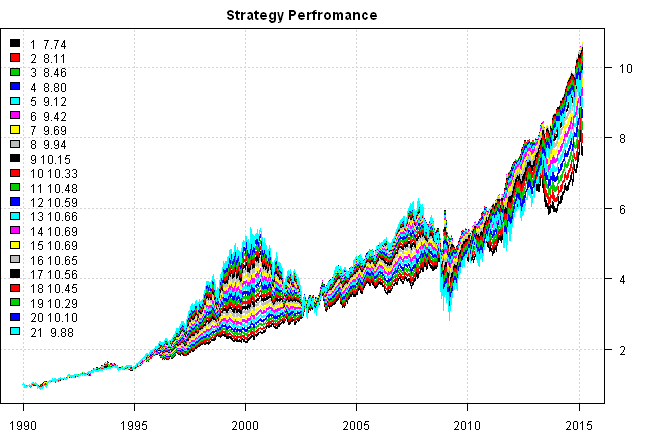
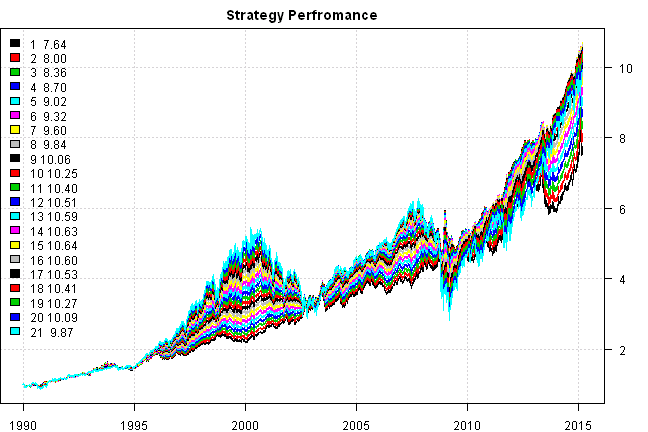
update blog post

Changed region(s): [[0.8642, 0.963, 0.9259, 0.9931], [0.6173, 0.5116, 0.6481, 0.5417], [0.0926, 0.7222, 0.1235, 0.7523]]

diff --git a/_posts/2015-02-24-Walk-Forward-Optimization.md b/_posts/2015-02-24-Walk-Forward-Optimization.md
@@ -147,7 +147,7 @@ print(plotbt.strategy.sidebyside(models, make.plot=F, return.table=T, perfromanc
 |              |SP500             |UIS               |
 |:-------------|:-----------------|:-----------------|
 |Period        |Dec1989 - Feb2015 |Dec1989 - Feb2015 |
-|Cagr          |9.55              |12.01             |
+|Cagr          |9.54              |11.98             |
 |Sharpe        |0.59              |1.21              |
 |DVR           |0.48              |1                 |
 |R2            |0.81              |0.82              |
@@ -155,8 +155,8 @@ print(plotbt.strategy.sidebyside(models, make.plot=F, return.table=T, perfromanc
 |MaxDD         |-55.19            |-17.12            |
 |Exposure      |99.98             |98.83             |
 |Win.Percent   |100               |63.6              |
-|Avg.Trade     |896.71            |0.57              |
-|Profit.Factor |NaN               |2.08              |
+|Avg.Trade     |895.53            |0.57              |
+|Profit.Factor |NaN               |2.07              |
 |Num.Trades    |1                 |533               |
     
 
@@ -189,8 +189,8 @@ print(last.trades(models$UIS, make.plot=F, return.table=T))
 |FI         | 55    |2014-11-28 |2014-12-31 |33    |121.96      |125.67     |  1.67 |
 |EQ         | 40    |2014-12-31 |2015-01-30 |30    |205.54      |199.45     | -1.19 |
 |FI         | 60    |2014-12-31 |2015-01-30 |30    |125.67      |138.00     |  5.89 |
-|EQ         | 50    |2015-01-30 |2015-02-25 |26    |199.45      |211.63     |  3.05 |
-|FI         | 50    |2015-01-30 |2015-02-25 |26    |138.00      |130.23     | -2.82 |
+|EQ         | 50    |2015-01-30 |2015-02-26 |27    |199.45      |211.38     |  2.99 |
+|FI         | 50    |2015-01-30 |2015-02-26 |27    |138.00      |128.45     | -3.46 |
     
 
 
@@ -230,7 +230,7 @@ print(plotbt.monthly.table(models$UIS$equity, make.plot = F))
 |2012 |  1.9 |  0.9 | -0.2 |  1.2 | -0.8 |  0.9 |  2.6 |  0.4 |  0.0 | -1.2 |  0.7 | -0.8 |  5.6 | -3.8 |
 |2013 |  0.1 |  1.2 |  2.1 |  3.0 | -1.8 | -2.1 |  4.0 | -3.0 |  3.2 |  4.6 |  1.8 |  1.0 | 14.7 | -6.3 |
 |2014 | -1.1 |  2.7 |  0.8 |  1.4 |  2.7 |  0.9 | -0.4 |  4.2 | -1.7 |  2.6 |  2.9 |  1.5 | 17.6 | -3.0 |
-|2015 |  4.7 |  0.2 |      |      |      |      |      |      |      |      |      |      |  4.9 | -2.1 |
+|2015 |  4.7 | -0.5 |      |      |      |      |      |      |      |      |      |      |  4.2 | -2.1 |
 |Avg  |  0.1 |  0.4 |  0.5 |  1.2 |  1.3 |  0.6 |  0.5 |  1.7 |  1.1 |  0.9 |  1.8 |  1.7 | 11.4 | -6.6 |
     
 
@@ -296,7 +296,7 @@ print(plotbt.strategy.sidebyside(models, make.plot=F, return.table=T, perfromanc
 |              |SP500             |UIS               |UIS5              |
 |:-------------|:-----------------|:-----------------|:-----------------|
 |Period        |Dec1989 - Feb2015 |Dec1989 - Feb2015 |Dec1989 - Feb2015 |
-|Cagr          |9.55              |12.01             |9.7               |
+|Cagr          |9.54              |11.98             |9.66              |
 |Sharpe        |0.59              |1.21              |1.03              |
 |DVR           |0.48              |1                 |0.9               |
 |R2            |0.81              |0.82              |0.88              |
@@ -304,8 +304,8 @@ print(plotbt.strategy.sidebyside(models, make.plot=F, return.table=T, perfromanc
 |MaxDD         |-55.19            |-17.12            |-18.92            |
 |Exposure      |99.98             |98.83             |99.83             |
 |Win.Percent   |100               |63.6              |61.23             |
-|Avg.Trade     |896.71            |0.57              |0.44              |
-|Profit.Factor |NaN               |2.08              |1.83              |
+|Avg.Trade     |895.53            |0.57              |0.44              |
+|Profit.Factor |NaN               |2.07              |1.83              |
 |Num.Trades    |1                 |533               |570               |
     
 
@@ -390,20 +390,83 @@ print(plotbt.strategy.sidebyside(models, make.plot=F, return.table=T, perfromanc
 |              |SP500             |UIS               |UIS5              |UIS.A             |UIS.B             |
 |:-------------|:-----------------|:-----------------|:-----------------|:-----------------|:-----------------|
 |Period        |Dec1989 - Feb2015 |Dec1989 - Feb2015 |Dec1989 - Feb2015 |Dec1989 - Feb2015 |Dec1989 - Feb2015 |
-|Cagr          |9.55              |12.01             |9.7               |10.82             |10.02             |
-|Sharpe        |0.59              |1.21              |1.03              |1.16              |1.14              |
-|DVR           |0.48              |1                 |0.9               |1                 |1.03              |
+|Cagr          |9.54              |11.98             |9.66              |10.79             |9.99              |
+|Sharpe        |0.59              |1.21              |1.03              |1.16              |1.13              |
+|DVR           |0.48              |1                 |0.9               |0.99              |1.03              |
 |R2            |0.81              |0.82              |0.88              |0.86              |0.9               |
 |Volatility    |18.41             |9.74              |9.42              |9.22              |8.74              |
 |MaxDD         |-55.19            |-17.12            |-18.92            |-16.73            |-17.94            |
 |Exposure      |99.98             |98.83             |99.83             |97.84             |99.18             |
 |Win.Percent   |100               |63.6              |61.23             |61.99             |62.26             |
-|Avg.Trade     |896.71            |0.57              |0.44              |0.47              |0.45              |
-|Profit.Factor |NaN               |2.08              |1.83              |1.94              |1.88              |
+|Avg.Trade     |895.53            |0.57              |0.44              |0.47              |0.45              |
+|Profit.Factor |NaN               |2.07              |1.83              |1.94              |1.87              |
 |Num.Trades    |1                 |533               |570               |584               |575               |
     
 
+gregor mentioned in his comment that simple monthly switching, based on prior three months returns, works quite well.
 
 
 
-*(this report was produced on: 2015-02-26)*
+{% highlight r %}
+# simple monthly switching, based on prior three month returns, works well
+position.score = prices / mlag(prices, 3 * 21)	
+
+data$weight[] = NA
+	data$weight[period.ends,] = ntop(position.score[period.ends,], 1)
+models$TOP.3M = bt.run.share(data, clean.signal=F, commission = commission, trade.summary=T, silent=T)
+
+plotbt(models, plotX = T, log = 'y', LeftMargin = 3, main = NULL)
+	mtext('Cumulative Performance', side = 2, line = 1)
+{% endhighlight %}
+
+![plot of chunk plot-5](/public/images/2015-02-24-Walk-Forward-Optimization/plot-5-1.png) 
+
+{% highlight r %}
+print(plotbt.strategy.sidebyside(models, make.plot=F, return.table=T, perfromance.fn=engineering.returns.kpi))
+{% endhighlight %}
+
+
+
+|              |SP500             |UIS               |UIS5              |UIS.A             |UIS.B             |TOP.3M            |
+|:-------------|:-----------------|:-----------------|:-----------------|:-----------------|:-----------------|:-----------------|
+|Period        |Dec1989 - Feb2015 |Dec1989 - Feb2015 |Dec1989 - Feb2015 |Dec1989 - Feb2015 |Dec1989 - Feb2015 |Dec1989 - Feb2015 |
+|Cagr          |9.54              |11.98             |9.66              |10.79             |9.99              |13.35             |
+|Sharpe        |0.59              |1.21              |1.03              |1.16              |1.13              |0.98              |
+|DVR           |0.48              |1                 |0.9               |0.99              |1.03              |0.75              |
+|R2            |0.81              |0.82              |0.88              |0.86              |0.9               |0.76              |
+|Volatility    |18.41             |9.74              |9.42              |9.22              |8.74              |13.71             |
+|MaxDD         |-55.19            |-17.12            |-18.92            |-16.73            |-17.94            |-17.08            |
+|Exposure      |99.98             |98.83             |99.83             |97.84             |99.18             |98.83             |
+|Win.Percent   |100               |63.6              |61.23             |61.99             |62.26             |66.78             |
+|Avg.Trade     |895.53            |0.57              |0.44              |0.47              |0.45              |1.16              |
+|Profit.Factor |NaN               |2.07              |1.83              |1.94              |1.87              |2.36              |
+|Num.Trades    |1                 |533               |570               |584               |575               |295               |
+    
+
+Let's quickly check if other look back work equally well:
+
+
+{% highlight r %}
+test.models = list()
+
+for(i in 1:12) {
+	position.score = prices / mlag(prices, i * 21)	
+		
+	data$weight[] = NA
+		data$weight[period.ends,] = ntop(position.score[period.ends,], 1)
+	test.models[[paste0('TOP.', i, 'M')]] = bt.run.share(data, clean.signal=F, commission = commission, trade.summary=T, silent=T)
+}
+
+stats = plotbt.strategy.sidebyside(test.models, make.plot=F, return.table=T, perfromance.fn=engineering.returns.kpi)
+performance.barchart.helper(stats, 'Sharpe,Cagr,Win.Percent,MaxDD,Volatility,Profit.Factor', c(T,T,T,T,F,T), sort.performance = F)
+{% endhighlight %}
+
+![plot of chunk plot-6](/public/images/2015-02-24-Walk-Forward-Optimization/plot-6-1.png) 
+
+Looks like three months is the best look back period.
+
+
+
+
+
+*(this report was produced on: 2015-02-27)*
